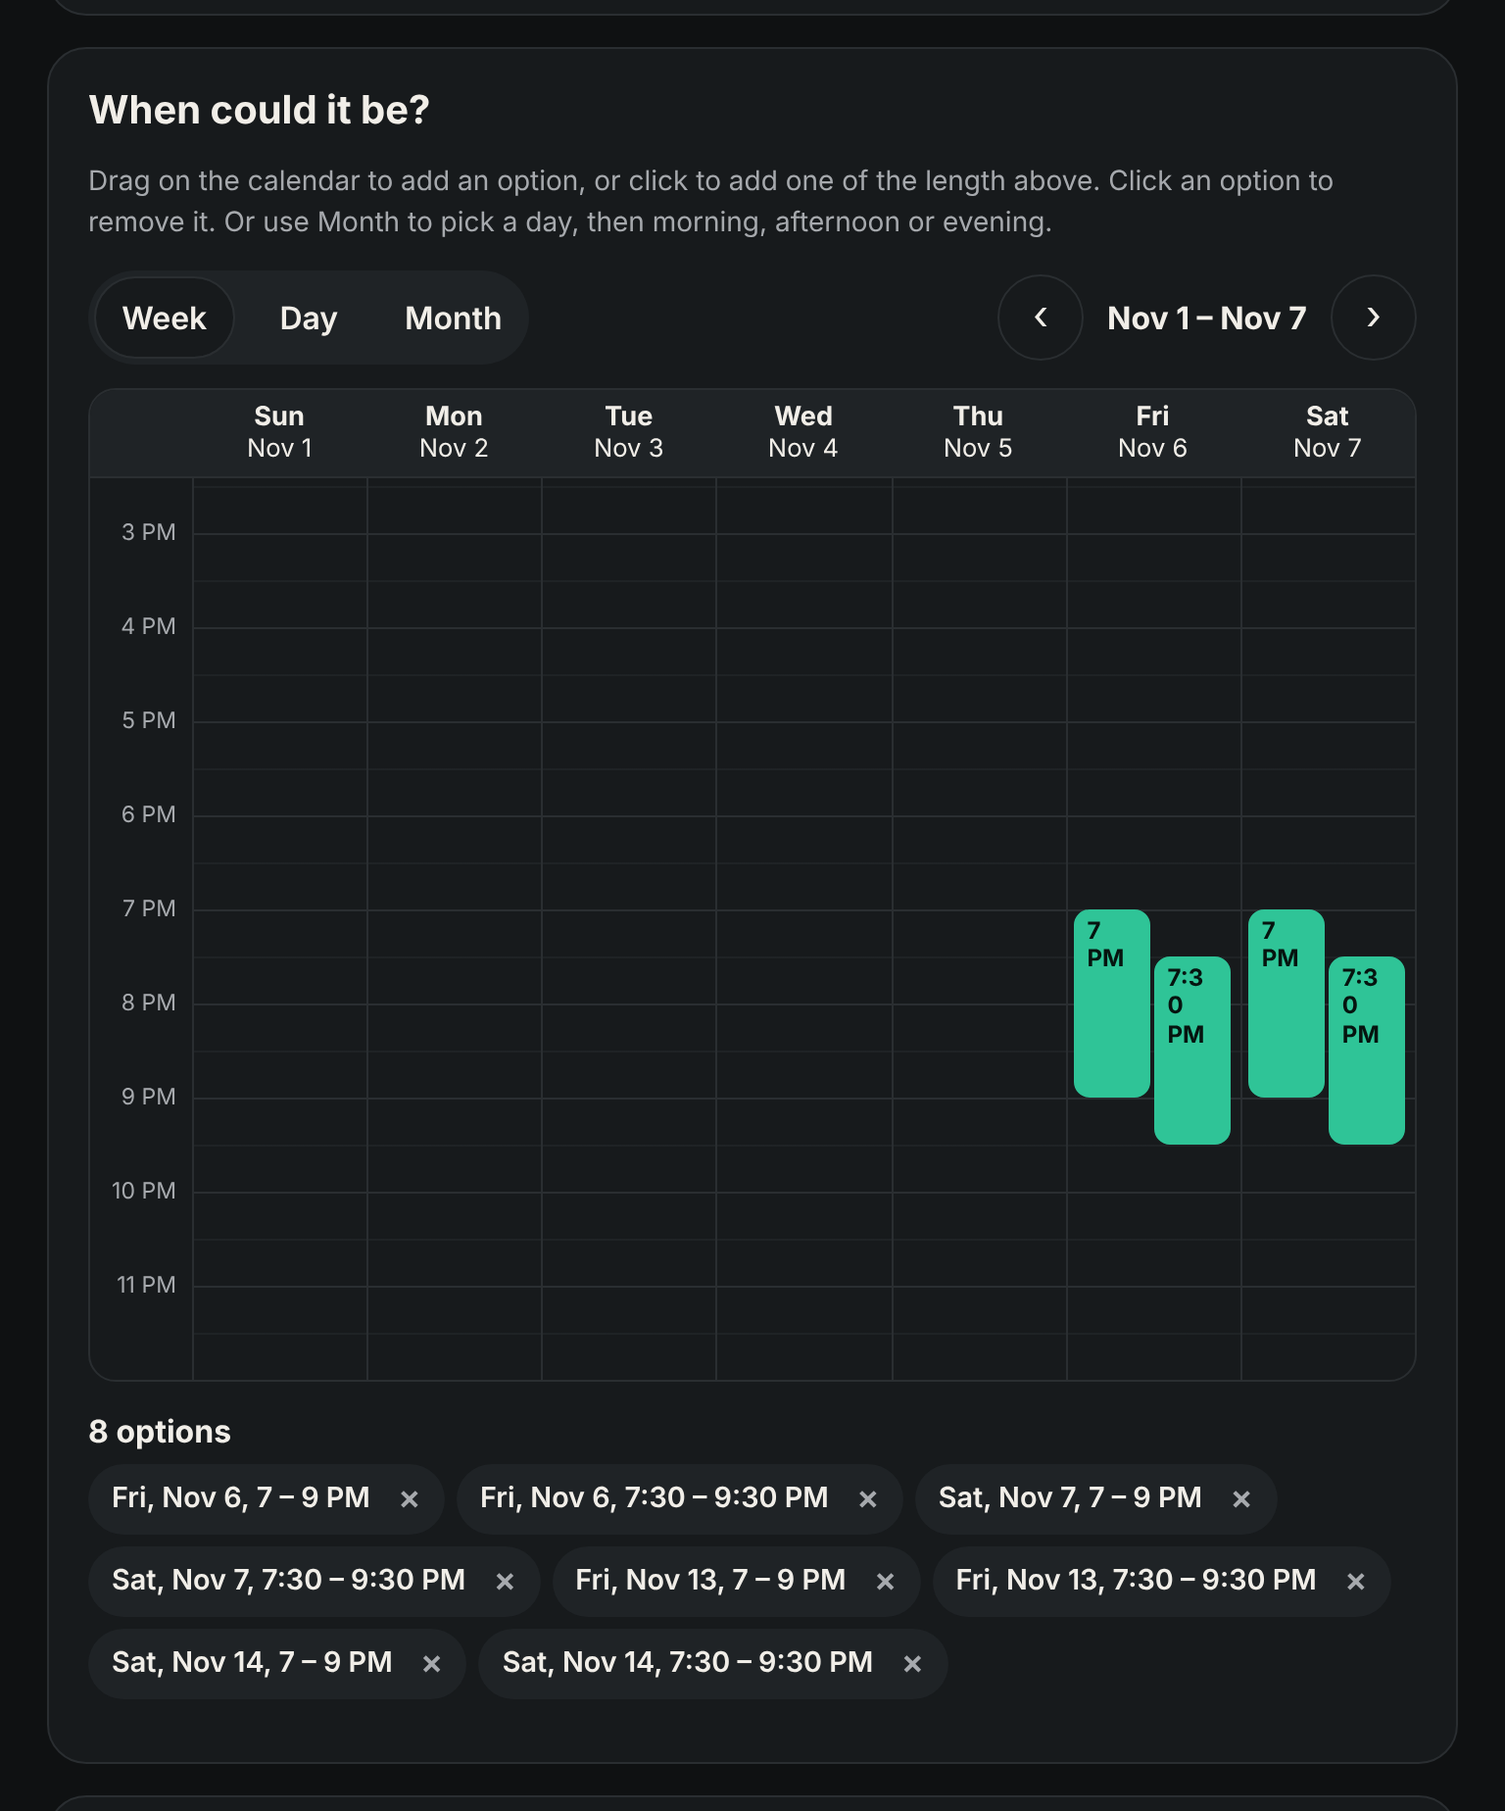
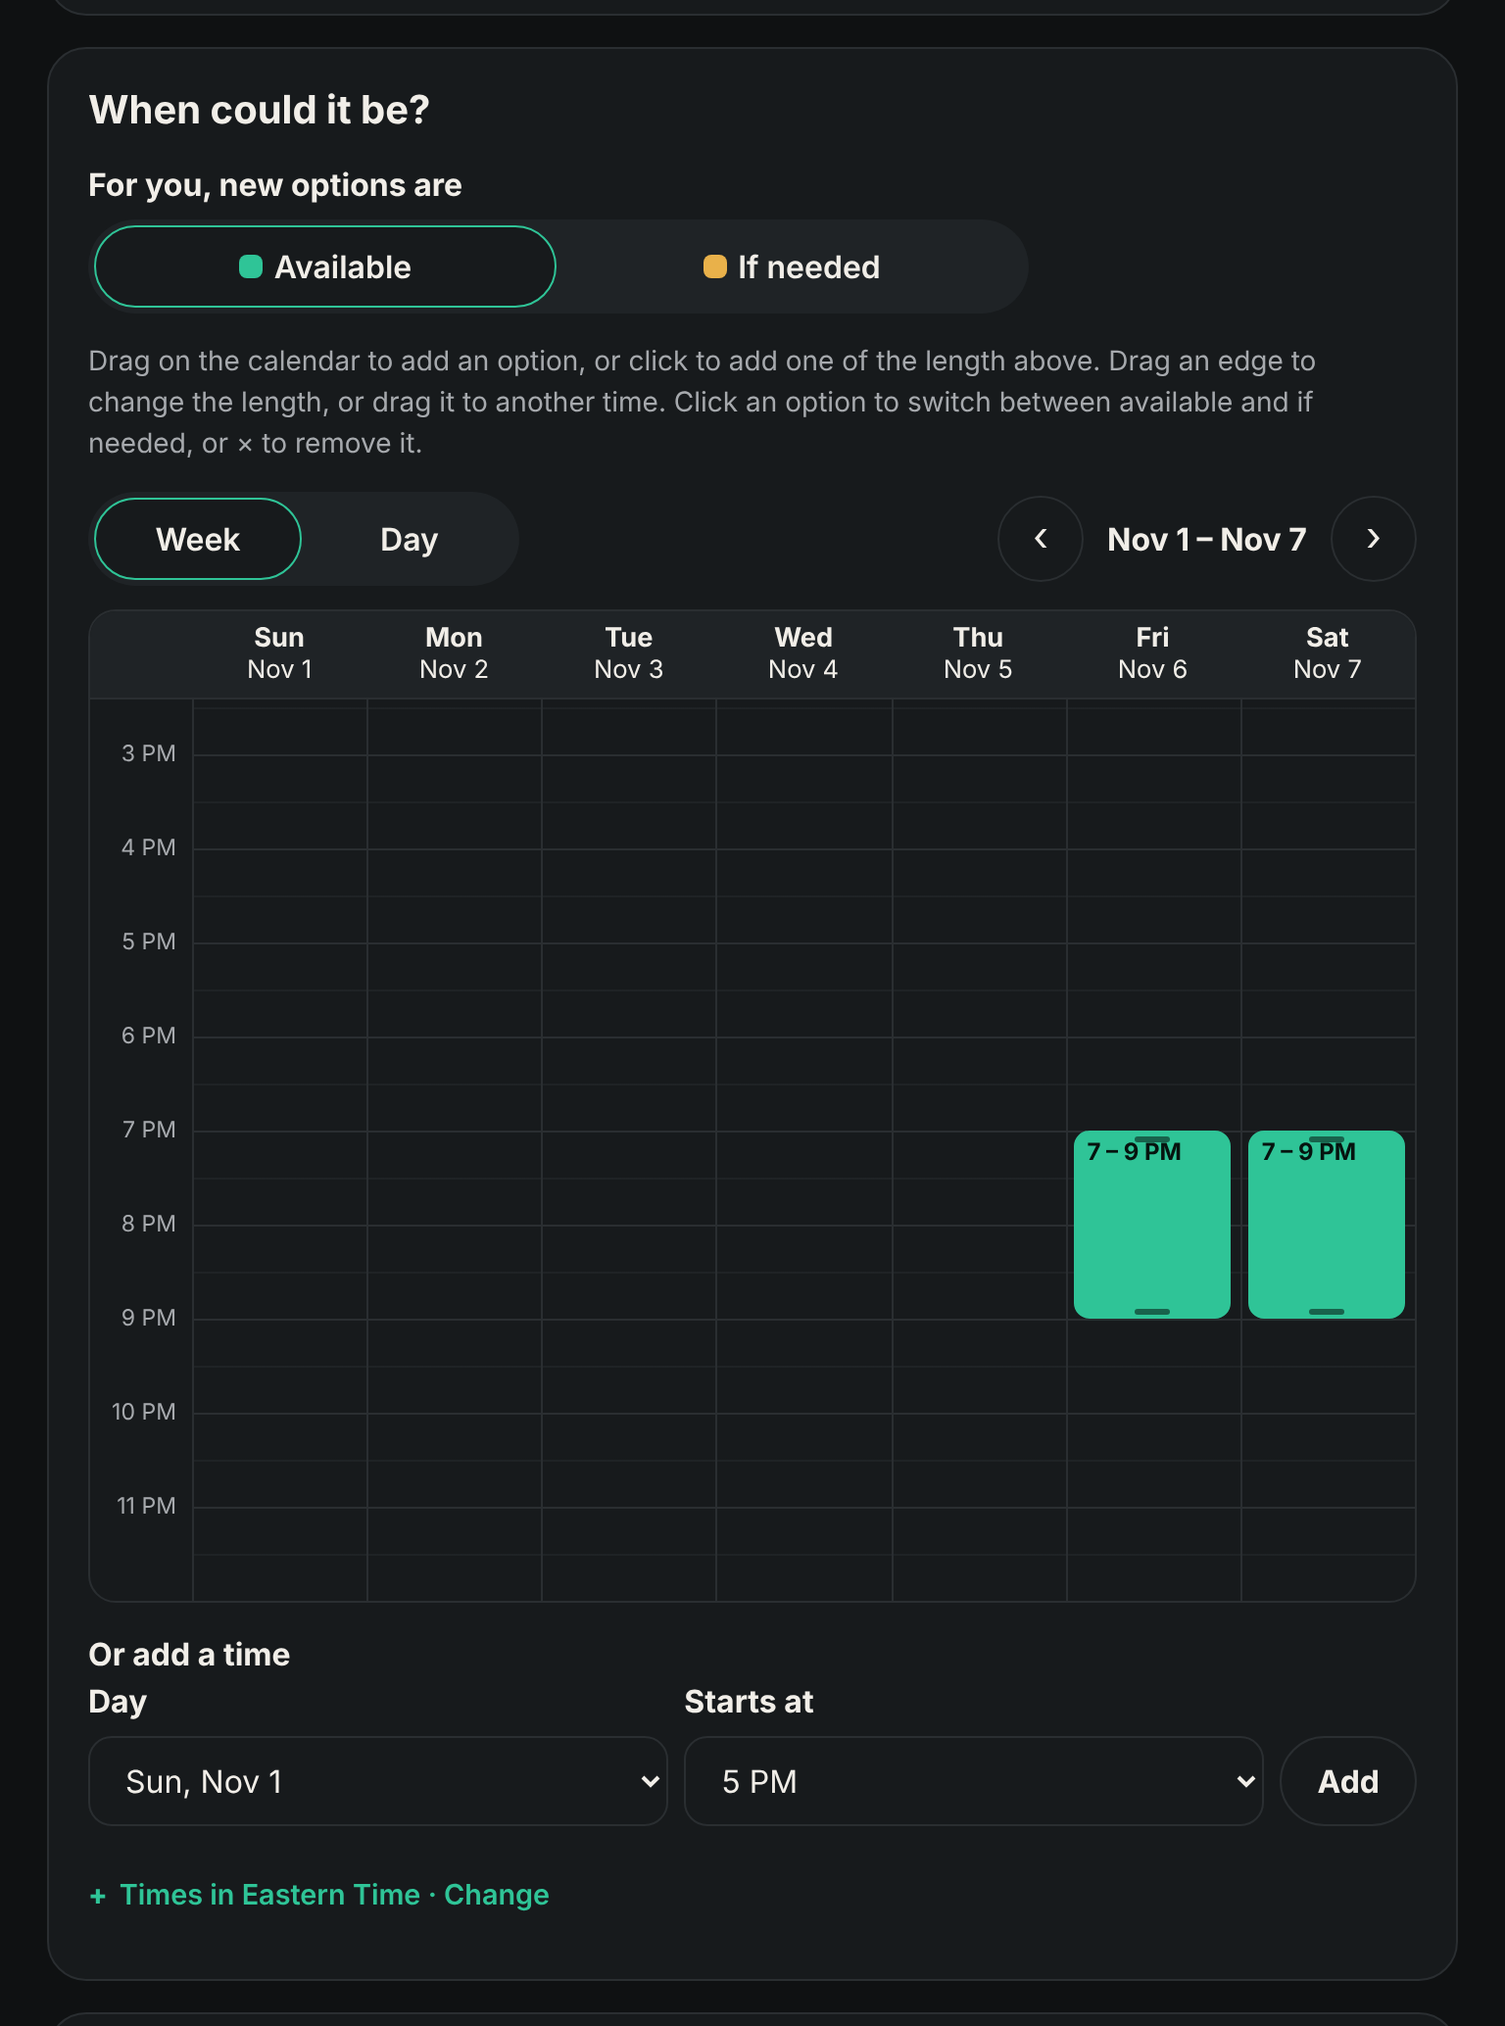
Fresh screenshots, and phone screens on the home page
Regenerates the README images and demo GIF against today's app (the script now
taps times on the week calendar and skips the celebrations), and adds a How it
works section to venn.day with three phone screens: making a poll, answering,
and the best options. They're WebP, lazy-loaded, in light and dark.

Claude-Session: https://claude.ai/code/session_0165PeHYDGpycZrJhnd8mot5

diff --git a/scripts/screenshots.js b/scripts/screenshots.js
@@ -1,4 +1,5 @@
-// Regenerates the README images (docs/screenshots/*.png, docs/demo.gif): `npm run screenshots`.
+// Regenerates the README images (docs/screenshots/*.png, docs/demo.gif) and the phone screens on the
+// home page (public/img/shots/*.webp): `npm run screenshots`.
 // Needs Playwright's Chromium (`npx playwright install chromium`) and ffmpeg (for the GIF).
 
 import { execFileSync } from 'node:child_process';
@@ -11,8 +12,29 @@ import { zonedToUtc, addDays, weekdayOf } from '../public/core.js';
 
 const root = join(dirname(fileURLToPath(import.meta.url)), '..');
 const out = join(root, 'docs', 'screenshots');
+const shots = join(root, 'public', 'img', 'shots');
 const TZ = 'America/New_York';
 mkdirSync(out, { recursive: true });
+mkdirSync(shots, { recursive: true });
+
+// A phone screen for the home page: the viewport as a small WebP (ffmpeg), 600px wide for 300px on screen.
+async function homeShot(page, name) {
+  const png = join(shots, `${name}.png`);
+  await page.screenshot({ path: png });
+  execFileSync('ffmpeg', [
+    '-y',
+    '-loglevel',
+    'error',
+    '-i',
+    png,
+    '-vf',
+    'scale=600:-1:flags=lanczos',
+    '-quality',
+    '78',
+    join(shots, `${name}.webp`),
+  ]);
+  rmSync(png);
+}
 
 const server = createApp({ dbPath: ':memory:' });
 await new Promise((r) => server.listen(0, r));
@@ -73,6 +95,38 @@ async function seedPoll() {
 
 const HIDE_TOAST = '#toast { display: none !important; }';
 
+// The create page's week calendar: go forward a week at a time until `date` shows (as e2e/helpers.js does).
+async function showDate(page, date, step = (sel) => page.click(sel)) {
+  const col = page.locator(`#picker .tg-col[data-date="${date}"]`);
+  for (let i = 0; i < 60 && !(await col.count()); i++) {
+    // On a phone it shows one day; the strip's chips pick a day in the week shown.
+    const chip = page.locator(`#picker .tv-chip[data-day="${date}"]`);
+    if (await chip.isVisible()) {
+      await step(`#picker .tv-chip[data-day="${date}"]`);
+      continue;
+    }
+    const shown = await page.locator('#picker .tg-col').first().getAttribute('data-date');
+    await step(`#picker .tv-nav [data-step="${date < shown ? -1 : 1}"]`);
+  }
+  return col;
+}
+
+// Scroll a day's column so `minutes` shows, and return its y offset in the column.
+const rowY = (col, minutes) =>
+  col.evaluate((el, m) => {
+    const row = parseFloat(getComputedStyle(el.closest('.tg')).getPropertyValue('--row')) || 24;
+    const y = ((m - 420) / 30) * row + row / 2;
+    el.closest('.tg-scroll').scrollTop = y - 2 * row;
+    return y;
+  }, minutes);
+
+async function tapAt(page, date, minutes) {
+  const col = await showDate(page, date);
+  const y = await rowY(col, minutes);
+  const b = await col.boundingBox();
+  await page.mouse.click(b.x + 6, b.y + y);
+}
+
 // Screenshot `selector` from the top of `from` (default: the page, so the header shows) to its bottom,
 // cropped to the width of `crop` (default: the whole page).
 async function shoot(page, selector, path, { from, crop, pad = 24 } = {}) {
@@ -118,6 +172,9 @@ async function answerAsSam(page, id) {
   for (const [i, v] of SAM.entries()) await page.locator('#mine .row').nth(i).locator(`[data-vote="${v}"]`).click();
   await page.fill('#name', 'Sam');
   await page.click('#save');
+  // Skip the "Answer sent!" celebration.
+  await page.click('.party-go');
+  await page.waitForSelector('.party', { state: 'detached' });
   await page.waitForSelector('.matrix');
   await page.evaluate(() => scrollTo(0, 0));
 }
@@ -128,7 +185,8 @@ async function stills(dark) {
 
   const desktop = await newPage({ dark });
   await answerAsSam(desktop, id);
-  await desktop.addStyleTag({ content: HIDE_TOAST });
+  // The save bar sticks to the bottom of the window; in a full-page shot it would float mid-page.
+  await desktop.addStyleTag({ content: `${HIDE_TOAST} .save-bar { position: static !important; }` });
   await shoot(desktop, '#panel-group', join(out, `results-${suffix}.png`), { crop: '#event-root' });
 
   await desktop.goto(`${base}/new/pick`);
@@ -136,19 +194,13 @@ async function stills(dark) {
   await desktop.click('[data-occasion="0"]');
   await desktop.fill('#title', 'Dinner at Finn’s');
   await desktop.fill('#location', 'Finn’s Trattoria, 14 Elm St');
-  // Add 7 and 7:30 PM on two Fridays and Saturdays from the month view, then show them on the week.
-  await desktop.click('[data-view="month"]');
-  for (const d of [0, 1, 7, 8]) {
-    const date = addDays(fri, d);
-    if (!(await desktop.locator(`.month-cal [data-date="${date}"]`).count())) await desktop.click('.month-cal [data-nav="1"]');
-    await desktop.click(`.month-cal [data-date="${date}"]`);
-    for (const t of ['19:00', '19:30']) {
-      await desktop.fill('#exact', t);
-      await desktop.click('#add-exact');
-    }
-  }
-  await desktop.click('[data-view="week"]');
-  while (!(await desktop.locator(`.tg-col[data-date="${fri}"]`).count())) await desktop.click('.tv-nav [data-step="1"]');
+  // Tap 7 PM on two Fridays and Saturdays on the week calendar, then come back to the first week.
+  for (const d of [0, 1, 7, 8]) await tapAt(desktop, addDays(fri, d), 19 * 60);
+  await showDate(desktop, fri);
+  await desktop.locator(`#picker .tg-col[data-date="${fri}"]`).evaluate((el) => {
+    const s = el.closest('.tg-scroll');
+    s.scrollTop = s.scrollHeight;
+  });
   await desktop.locator('#title').blur();
   await desktop.addStyleTag({ content: '.create-bar { position: static; }' });
   await shoot(desktop, '.sheet:has(#when-h)', join(out, `create-${suffix}.png`), {
@@ -160,14 +212,49 @@ async function stills(dark) {
   const phone = await newPage({ dark, mobile: true });
   await phone.goto(`${base}/e/${id}`);
   await phone.waitForSelector('#mine .row');
-  for (const [i, v] of [2, 1, 0].entries()) await phone.locator('#mine .row').nth(i).locator(`[data-vote="${v}"]`).tap();
+  for (const [i, v] of [2, 1, 0, 2, 2].entries()) await phone.locator('#mine .row').nth(i).locator(`[data-vote="${v}"]`).tap();
   await phone.fill('#name', 'Jamie');
   await phone.locator('#name').blur();
-  await phone.evaluate(() =>
-    window.scrollTo(0, document.querySelector('.tabs').getBoundingClientRect().top + window.scrollY - 12),
-  );
+  // The tabs stick to the top, so line the first answer up just below them.
+  await phone.evaluate(() => {
+    const tabs = document.querySelector('.tabs').getBoundingClientRect().height;
+    const row = document.querySelector('#mine .row').getBoundingClientRect().top + window.scrollY;
+    window.scrollTo(0, row - tabs - 24);
+  });
+  await phone.waitForTimeout(500); // let Submit finish turning ready
   await phone.screenshot({ path: join(out, `mobile-${suffix}.png`) });
+  await homeShot(phone, `answer-${suffix}`);
+
+  // Then send it and see the group's best options.
+  await phone.click('#save');
+  await phone.click('.party-go');
+  await phone.waitForSelector('.party', { state: 'detached' });
+  await phone.addStyleTag({ content: HIDE_TOAST });
+  await phone.evaluate(() => {
+    const tabs = document.querySelector('.tabs').getBoundingClientRect().height;
+    const best = document.querySelector('#panel-group').getBoundingClientRect().top + window.scrollY;
+    window.scrollTo({ top: best - tabs - 16, behavior: 'instant' });
+  });
+  await phone.waitForTimeout(500);
+  await homeShot(phone, `results-${suffix}`);
   await phone.context().close();
+
+  // Creating a poll on a phone: the plan, then two evenings tapped on the calendar.
+  const maker = await newPage({ dark, mobile: true });
+  await maker.goto(`${base}/new/pick`);
+  await maker.addStyleTag({ content: HIDE_TOAST });
+  await maker.click('[data-occasion="0"]');
+  await maker.fill('#title', 'Dinner at Finn’s');
+  await maker.fill('#organizer', 'Priya');
+  for (const d of [0, 1]) await tapAt(maker, addDays(fri, d), 19 * 60);
+  await maker.locator('#organizer').blur();
+  await maker.evaluate(() => {
+    const top = document.querySelector('.sheet:has(#when-h)').getBoundingClientRect().top + window.scrollY;
+    window.scrollTo({ top: top - 12, behavior: 'instant' });
+  });
+  await maker.waitForTimeout(500);
+  await homeShot(maker, `create-${suffix}`);
+  await maker.context().close();
 }
 
 // ---------- animated demo ----------
@@ -216,30 +303,27 @@ async function recordDemo() {
   await click('a[href="/new/pick"]', 600);
   await click('[data-occasion="0"]', 300);
   await type('#title', 'Dinner at Finn’s');
-  await click('[data-view="month"]', 400);
   for (const d of [0, 1, 7, 8]) {
-    const date = addDays(fri, d);
-    if (!(await page.locator(`.month-cal [data-date="${date}"]`).count())) await click('.month-cal [data-nav="1"]', 300);
-    await click(`.month-cal [data-date="${date}"]`, 250);
-    await click('[data-part="evening"]', 250);
+    const col = await showDate(page, addDays(fri, d), (sel) => click(sel, 300));
+    const y = await rowY(col, 19 * 60);
+    const b = await col.boundingBox();
+    await page.mouse.move(b.x + 8, b.y + y, { steps: 12 });
+    mouse = { x: b.x + 8, y: b.y + y };
+    await page.mouse.down();
+    await page.mouse.up();
+    await page.waitForTimeout(300);
   }
-  await click('[data-view="week"]', 300);
-  while (!(await page.locator(`.tg-col[data-date="${fri}"]`).count())) await click('.tv-nav [data-step="1"]', 300);
+  await showDate(page, fri, (sel) => click(sel, 300));
   await page.waitForTimeout(600);
   await type('#organizer', 'Priya');
-  await click('#submit', 1200);
+  // Creating celebrates, then opens the poll with the organizer's own answer already in.
+  await click('#submit', 5000);
+  await page.waitForSelector('#mine .row');
 
-  // 2. Answer.
-  await page.evaluate(() => window.scrollTo({ top: 0 }));
-  const votes = [2, 1, 2, 0];
-  for (const [i, v] of votes.entries()) await click(page.locator('#mine .row').nth(i).locator(`[data-vote="${v}"]`), 120);
-  await type('#name', 'Priya');
-  await click('#save', 900);
-
-  // 3. Others answer (behind the scenes), then pick the winner.
+  // 2. Others answer (behind the scenes), then pick the winner.
   const id = page.url().split('/e/')[1];
   const ev = await api(`/api/events/${id}`);
-  const others = { Marcus: [0, 2, 2, 1], Ana: [2, 1, 2, 0], Jordan: [1, 0, 2, 2], Lee: [2, 2, 2, 0] };
+  const others = { Marcus: [0, 2, 2, 1], Ana: [2, 1, 2, 0], Jordan: [1, 0, 2, 2], Lee: [2, 2, 1, 0] };
   for (const [name, v] of Object.entries(others)) {
     const availability = Object.fromEntries(ev.slots.map((s, i) => [s, v[i]]).filter(([, x]) => x));
     await api(`/api/events/${id}/participants`, { name, availability });
@@ -267,7 +351,7 @@ async function recordDemo() {
 try {
   await stills(false);
   await stills(true);
-  console.log('wrote docs/screenshots/*.png');
+  console.log('wrote docs/screenshots/*.png and public/img/shots/*.webp');
   try {
     execFileSync('ffmpeg', ['-version'], { stdio: 'ignore' });
     await recordDemo();

diff --git a/public/index.html b/public/index.html
@@ -104,6 +104,60 @@
         </div>
       </section>
 
+      <section id="how" class="section">
+        <div class="wrap">
+          <p class="eyebrow">How it works</p>
+          <h2>Made for the phone <em>in your hand.</em></h2>
+          <ol class="shots" tabindex="0" aria-label="Venn on a phone, in three steps">
+            <li>
+              <picture>
+                <source media="(prefers-color-scheme: dark)" srcset="/img/shots/create-dark.webp" />
+                <img
+                  src="/img/shots/create-light.webp"
+                  width="600"
+                  height="1298"
+                  loading="lazy"
+                  decoding="async"
+                  alt="Creating a dinner poll on a phone: two evenings tapped on the calendar, and a Create poll button"
+                />
+              </picture>
+              <h3>1. Make a poll</h3>
+              <p>Name the plan and tap a few evenings. No account needed.</p>
+            </li>
+            <li>
+              <picture>
+                <source media="(prefers-color-scheme: dark)" srcset="/img/shots/answer-dark.webp" />
+                <img
+                  src="/img/shots/answer-light.webp"
+                  width="600"
+                  height="1298"
+                  loading="lazy"
+                  decoding="async"
+                  alt="Answering a poll on a phone: Yes, If needed and No buttons for each evening"
+                />
+              </picture>
+              <h3>2. Friends tap their answers</h3>
+              <p>Yes, if needed or no for each option. Nothing to install.</p>
+            </li>
+            <li>
+              <picture>
+                <source media="(prefers-color-scheme: dark)" srcset="/img/shots/results-dark.webp" />
+                <img
+                  src="/img/shots/results-light.webp"
+                  width="600"
+                  height="1298"
+                  loading="lazy"
+                  decoding="async"
+                  alt="The best options on a phone: Friday, November 13 works for everyone"
+                />
+              </picture>
+              <h3>3. The best day rises to the top</h3>
+              <p>See who can make each option, then pick the date.</p>
+            </li>
+          </ol>
+        </div>
+      </section>
+
       <section id="groups" class="section">
         <div class="wrap groups">
           <div>

diff --git a/public/site.css b/public/site.css
@@ -514,6 +514,35 @@ h2 em {
   line-height: 1;
 }
 
+/* How it works: three phone screens, side by side; on a phone, a row to swipe through. */
+.shots {
+  list-style: none;
+  margin: 48px 0 0;
+  padding: 0;
+  display: grid;
+  grid-template-columns: repeat(3, minmax(0, 1fr));
+  gap: 40px;
+}
+.shots li {
+  min-width: 0;
+}
+.shots img {
+  display: block;
+  width: 100%;
+  max-width: 300px;
+  height: auto;
+  margin: 0 0 24px;
+  border: 1px solid var(--line);
+  border-radius: 28px;
+  background: var(--card);
+  box-shadow: var(--shot-shadow);
+}
+.shots:focus-visible {
+  outline: 3px solid var(--green);
+  outline-offset: 8px;
+  border-radius: 12px;
+}
+
 /* For groups */
 .groups {
   display: grid;
@@ -838,6 +867,19 @@ h3 {
   }
   .story {
     max-width: 560px;
+  }
+  .shots {
+    display: flex;
+    gap: 20px;
+    overflow-x: auto;
+    scroll-snap-type: x mandatory;
+    margin-inline: calc(-1 * var(--gutter));
+    padding: 0 var(--gutter) 24px;
+    scroll-padding-inline: var(--gutter);
+  }
+  .shots li {
+    flex: 0 0 min(260px, 72vw);
+    scroll-snap-align: start;
   }
 }
 @media (max-width: 640px) {

diff --git a/README.md b/README.md
@@ -120,6 +120,7 @@ Time zones, ranking and calendar files live in `public/core.js`, shared by the b
 
 - **Two kinds of poll.** Vote on a few dates, or ask when people are free: paint the hours on a calendar, or pick whole days, or days in a row for a trip.
 - **Nobody signs up.** Open the link, type a name, tap _Yes_, _If needed_ or _No_. It's built for phones first.
+- **The organizer's poll is their answer:** the times they offer count as theirs. They can edit the poll until someone answers, then duplicate it.
 - **The best date rises to the top,** with everyone who can make it. Pick it and everyone adds it to Google, Apple or Outlook Calendar.
 - **Privacy controls for organizers:** ask everyone for their email, hide names, or hide everyone's answers so only you see them.
 - **Time zones handled,** and **notifications** by email, Slack, Discord or your own webhook. Checking your calendar is coming soon.
@@ -130,7 +131,7 @@ Time zones, ranking and calendar files live in `public/core.js`, shared by the b
 
 <picture>
   <source media="(prefers-color-scheme: dark)" srcset="docs/screenshots/create-dark.png">
-  <img src="docs/screenshots/create-light.png" alt="Creating a dinner poll: picking dates on a calendar">
+  <img src="docs/screenshots/create-light.png" alt="Creating a dinner poll: evenings tapped on a week calendar">
 </picture>
 
 <p align="center">

diff --git a/CONTRIBUTING.md b/CONTRIBUTING.md
@@ -29,7 +29,7 @@ npm run test:e2e     # browser tests on desktop and mobile (first run: npx playw
 npm run format       # auto-fix formatting
 ```
 
-If you change how the app looks, regenerate the README images with `npm run screenshots` (needs ffmpeg for the demo GIF) and include them in your pull request.
+If you change how the app looks, regenerate the README images and the home page's phone screens (`public/img/shots/`) with `npm run screenshots` (needs ffmpeg) and include them in your pull request.
 
 CI runs all of these on every pull request, plus a check that the Cloudflare Worker still builds.
 
